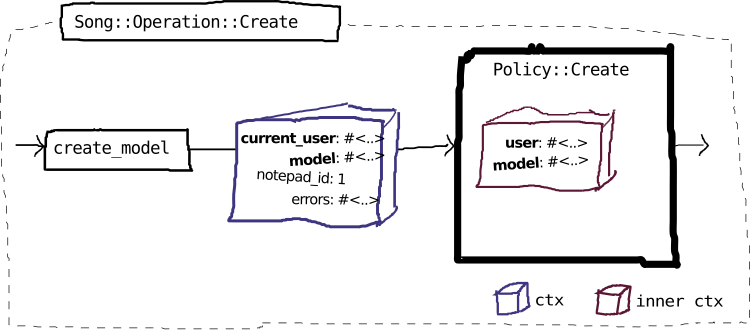
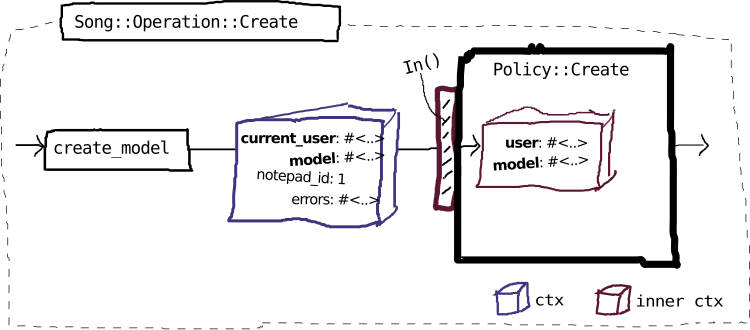
add drawings for io.

Changed region(s): [[0.5213, 0.2424, 0.644, 0.6667], [0.5213, 0.1515, 0.5827, 0.2121]]

diff --git a/public/2.1/docs/activity.html b/public/2.1/docs/activity.html
@@ -1735,7 +1735,7 @@ end
 
 <p>As you might have guessed, <code>In()</code> helps creating input filters. It allows to configure or dynamically compute variables going <em>into</em> the step. The helper accepts either a mapping hash, a limiting array or a callable object (often a lambda).</p>
 
-<p>Be wary that once you use <code>In()</code> only the variables defined in your filters will be passed into the step, remaining variables from ctx are invisible in the step.</p>
+<p>Be wary that once you use <code>In()</code>, only the variables defined in your filters will be passed into the step. All other variables from ctx are invisible in the step.</p>
 
 <p><span class="divider"></span></p>
 
@@ -1891,10 +1891,13 @@ end
 <p><span class="divider"></span></p>
 
 <h3 id="activity-variable-mapping-out-">Out()</h3>
-<p><!-- {activity-variable-mapping-out--toc} -->
-!!!!!!You can only configure what outgoing variables are</p>
+<p><!-- {activity-variable-mapping-out--toc} --></p>
 
-<p>Without any output configuration on the exemplary policy step, any variable written to <code>ctx</code> will be automatically set on the outer ctx. In other words, anything a step writes to <code>ctx</code> is passed to the following step. The behavior is identical to the way before you were using i/o.</p>
+<p>Without any output configuration on the exemplary policy step, any variable written to <code>ctx</code> will be automatically set on the outer ctx. Anything the step writes to <code>ctx</code> is passed along to the following step.</p>
+
+<p><img class="mx-auto d-block" src="/vite-dev/images/ctx-out-all.png" /></p>
+
+<p>Here, both <code>:status</code> and <code>:message</code> variables that were written in <code>Policy::Create</code> are passed into the outer ctx. The behavior is identical to the way before you were using i/o.</p>
 
 <p>However, it is often necessary to rename or limit the outgoing variables of a particular step. Especially when using nested operations you probably don’t want the entire nested ctx to be copied into the outer context. This is where output filters enter the stage.</p>
 
@@ -1942,6 +1945,8 @@ end
 </code></pre>
 
 <p>This single <code>Out()</code> usage will result in only the <code>:message</code> variable being written to the outer ctx that is passed on. The <code>:status</code> variable is discarded.</p>
+
+<p><img class="mx-auto d-block" src="/vite-dev/images/ctx-out.png" /></p>
 
 <p>You may pass any number of variables in the limiting array.</p>
 
